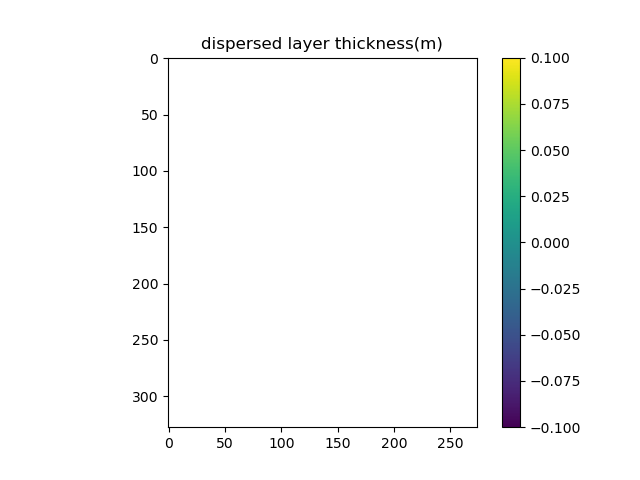
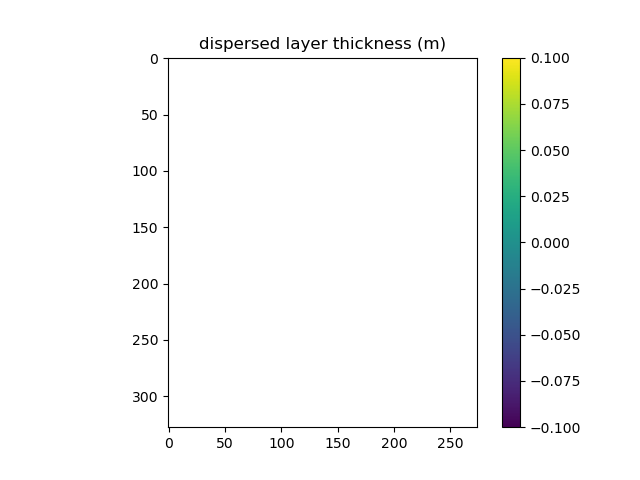
Work through advection algorithms

Changed region(s): [[0.3125, 0.0625, 0.6875, 0.125]]

diff --git a/experiments/static-effective-pressure/experiment.py b/experiments/static-effective-pressure/experiment.py
@@ -16,16 +16,15 @@ basal_water_pressure = 0.9 * (
 )
 BIS.set_value('basal_water_pressure', basal_water_pressure)
 
-# First, run 200 years of erosion to create a supply of till
-# for t in range(1000):
-#     BIS.erode_bedrock(BIS.sec_per_a)
-
 initial_till = np.full(BIS.grid.number_of_nodes, 40)
 BIS.set_value('till_thickness', initial_till)
 
 # Second, spin-up the sediment entrainment module
 initial_fringe = np.full(BIS.grid.number_of_nodes, 1e-3)
 BIS.set_value('fringe_thickness', initial_fringe)
+
+initial_dispersed = np.full(BIS.grid.number_of_nodes, 1e-9)
+BIS.set_value('dispersed_layer_thickness', initial_dispersed)
 
 for t in range(100):
     BIS.entrain_sediment(t * 1e-2)
@@ -47,11 +46,22 @@ for t in range(2500):
 
 print('Completed spin-up: ' + str(np.round(BIS.time_elapsed / BIS.sec_per_a, 2)) + ' years elapsed.')
 
+BIS.plot_var(
+    'fringe_thickness', working_dir + '/outputs/Hf_spinup.png', 
+    units_label='m',
+    imshow_args={'vmin': 1e-3, 'vmax': np.percentile(BIS.grid.at_node['fringe_thickness'][:], 99)}
+)
+
+BIS.plot_var(
+    'dispersed_layer_thickness', working_dir + '/outputs/Hd_spinup.png', 
+    units_label='m'
+)
+
 for t in range(500):
     dt = 0.01 * BIS.sec_per_a
     BIS.run_one_step(dt, advect=True)
 
-    if t % 100 == 0:
+    if t % 1000 == 0:
         print('Completed step #' + str(t))
 
 print('Completed simulation: ' + str(np.round(BIS.time_elapsed / BIS.sec_per_a, 2)) + ' years elapsed.')
@@ -59,9 +69,8 @@ print('Completed simulation: ' + str(np.round(BIS.time_elapsed / BIS.sec_per_a, 
 # Plot output figures
 
 BIS.plot_var('till_thickness', working_dir + 'outputs/Ht.png', units_label='m')
-# BIS.plot_var('effective_pressure', working_dir + 'outputs/N.png', scalar=1e-3, units_label='kPa')
-# BIS.plot_var('basal_melt_rate', working_dir + 'outputs/Mb.png', scalar=BIS.sec_per_a, units_label='m/a')
-# BIS.plot_var('fringe_heave_rate', working_dir + 'outputs/heave.png', scalar=BIS.sec_per_a, units_label='m/a')
+BIS.plot_var('basal_melt_rate', working_dir + 'outputs/Mb.png', units_label='m/a', scalar=BIS.sec_per_a)
+BIS.plot_var('fringe_heave_rate', working_dir + 'outputs/heave.png', units_label='m/a', scalar=BIS.sec_per_a)
 
 BIS.plot_var(
     'fringe_thickness', working_dir + '/outputs/Hf.png', 
@@ -81,24 +90,29 @@ BIS.plot_var(
 )
 
 BIS.plot_var(
+    'dispersed_concentration', working_dir + '/outputs/Cd.png',
+    units_label='g sed. / g ice'
+)
+
+BIS.plot_var(
     'fringe_growth_rate', working_dir + '/outputs/dHf_dt.png', 
     units_label='m/a',
     scalar=BIS.sec_per_a,
-    imshow_args={'vmin': 0}
+    imshow_args={'vmin': 0, 'vmax': np.percentile(BIS.grid.at_node['fringe_growth_rate'][:], 99)}
 )
 
-# var = BIS.grid.map_mean_of_links_to_node(BIS.grid.calc_grad_at_link('sliding_velocity_x'))
-# field = np.where(
-#     BIS.grid.at_node['ice_thickness'][:] > 0.5,
-#     var * BIS.sec_per_a,
-#     np.nan
-# )
-# field = np.reshape(field, [BIS.grid.shape[1], BIS.grid.shape[0]])
-# im = plt.imshow(field)
-# plt.colorbar(im)
-# plt.title('sliding velocity x')
-# plt.savefig(working_dir + 'outputs/gradUx.png')
-# plt.close('all')
+var = BIS.grid.map_mean_of_links_to_node(BIS.grid.calc_grad_at_link('dispersed_layer_thickness'))
+field = np.where(
+    BIS.grid.at_node['ice_thickness'][:] > 0.5,
+    var,
+    np.nan
+)
+field = np.reshape(field, [BIS.grid.shape[1], BIS.grid.shape[0]])
+im = plt.imshow(field)
+plt.colorbar(im)
+plt.title('gradient in dispersed thickness (m/m)')
+plt.savefig(working_dir + 'outputs/gradHd.png')
+plt.close('all')
 
 # var = BIS.grid.map_mean_of_links_to_node(BIS.grid.calc_grad_at_link('sliding_velocity_y'))
 # field = np.where(
@@ -126,3 +140,4 @@ plt.colorbar(im)
 plt.title('gradient of fringe thickness (m/m)')
 plt.savefig(working_dir + 'outputs/gradHf.png')
 plt.close('all')
+

diff --git a/basis/src/basis.py b/basis/src/basis.py
@@ -132,9 +132,11 @@ class BasalIceStratigrapher:
         N = self.grid.at_node['effective_pressure'][:]
         Us = self.grid.at_node['sliding_velocity_magnitude'][:]
 
-        N_reg = np.where(N != 0, N, np.nan)
+        N_reg = np.where(
+            self.grid.at_node['ice_thickness'] > 0.5, N, np.nan
+        )
         Ut = C * N_reg
-        tau_b = N * np.tan(theta) * np.float_power(Us / (Us + Ut), (1 / p))
+        tau_b = N_reg * np.tan(theta) * np.float_power(Us / (Us + Ut), (1 / p))
         
         self.grid.at_node['basal_shear_stress'][:] = tau_b[:]
 
@@ -299,7 +301,6 @@ class BasalIceStratigrapher:
         Hd = self.grid.at_node['dispersed_layer_thickness'][:]
 
         fringe_max_dh = self.grid.at_node['fringe_growth_rate'] * dt
-
         fringe_dh = np.minimum(fringe_max_dh, Ht / Cf)
         dispersed_dh = self.grid.at_node['dispersed_layer_growth_rate'] * dt
 
@@ -321,15 +322,32 @@ class BasalIceStratigrapher:
         Hd = self.grid.at_node['dispersed_layer_thickness'][:]
         Cd = self.grid.at_node['dispersed_concentration'][:]
         
-        grad_ux = self.grid.map_mean_of_links_to_node(self.grid.calc_grad_at_link(ux))
-        grad_uy = self.grid.map_mean_of_links_to_node(self.grid.calc_grad_at_link(uy))
-        grad_Hf = self.grid.map_mean_of_links_to_node(self.grid.calc_grad_at_link(Hf))
-        grad_Hd = self.grid.map_mean_of_links_to_node(self.grid.calc_grad_at_link(Hd))
-        grad_Cd = self.grid.map_mean_of_links_to_node(self.grid.calc_grad_at_link(Cd))
+        # TODO upwind with surface elevation
+        # TODO plot dt at a single point
+        # TODO check fringe under icefalls
+        ux_links = self.grid.map_mean_of_link_nodes_to_link(ux)
+        uy_links = self.grid.map_mean_of_link_nodes_to_link(uy)
+        Hf_links = self.grid.map_value_at_max_node_to_link('fringe_thickness', 'fringe_thickness'),
+        Hd_links = self.grid.map_value_at_max_node_to_link('dispersed_layer_thickness', 'dispersed_layer_thickness')
+        Cd_links = self.grid.map_value_at_max_node_to_link('dispersed_concentration', 'dispersed_concentration')
 
-        advect_Hf = (ux * grad_Hf + Hf * grad_ux + uy * grad_Hf + Hf * grad_uy) * dt
-        advect_Hd = (ux * grad_Hd + Hd * grad_ux + uy * grad_Hd + Hd * grad_uy) * dt
-        advect_Cd = (ux * grad_Cd + Cd * grad_ux + uy * grad_Cd + Cd * grad_uy) * dt
+        grad_ux = self.grid.calc_grad_at_link(ux)
+        grad_uy = self.grid.calc_grad_at_link(uy)
+        grad_Hf = self.grid.calc_grad_at_link(Hf)
+        grad_Hd = self.grid.calc_grad_at_link(Hd)
+        grad_Cd = self.grid.calc_grad_at_link(Cd)
+
+        advect_Hf = self.grid.map_mean_of_links_to_node(
+            (ux_links * grad_Hf + uy_links * grad_Hf + Hf_links * grad_ux + Hf_links * grad_uy) * dt
+        )
+
+        advect_Hd = self.grid.map_mean_of_links_to_node(
+            (ux_links * grad_Hd + uy_links * grad_Hd + Hd_links * grad_ux + Hd_links * grad_uy) * dt
+        )
+
+        advect_Cd = self.grid.map_mean_of_links_to_node(
+            (ux_links * grad_Cd + uy_links * grad_Cd + Cd_links * grad_ux + Cd_links * grad_uy) * dt
+        )
 
         Hf[:] -= advect_Hf[:]
         Hd[:] -= advect_Hd[:]
@@ -375,7 +393,7 @@ class BasalIceStratigrapher:
 
         im = plt.imshow(field, **imshow_args)
         plt.colorbar(im, **cbar_args)
-        plt.title(var.replace('_', ' ') + '(' + units_label + ')')
+        plt.title(var.replace('_', ' ') + ' (' + units_label + ')')
 
         if path_to_file:
             plt.savefig(path_to_file, **savefig_args)
